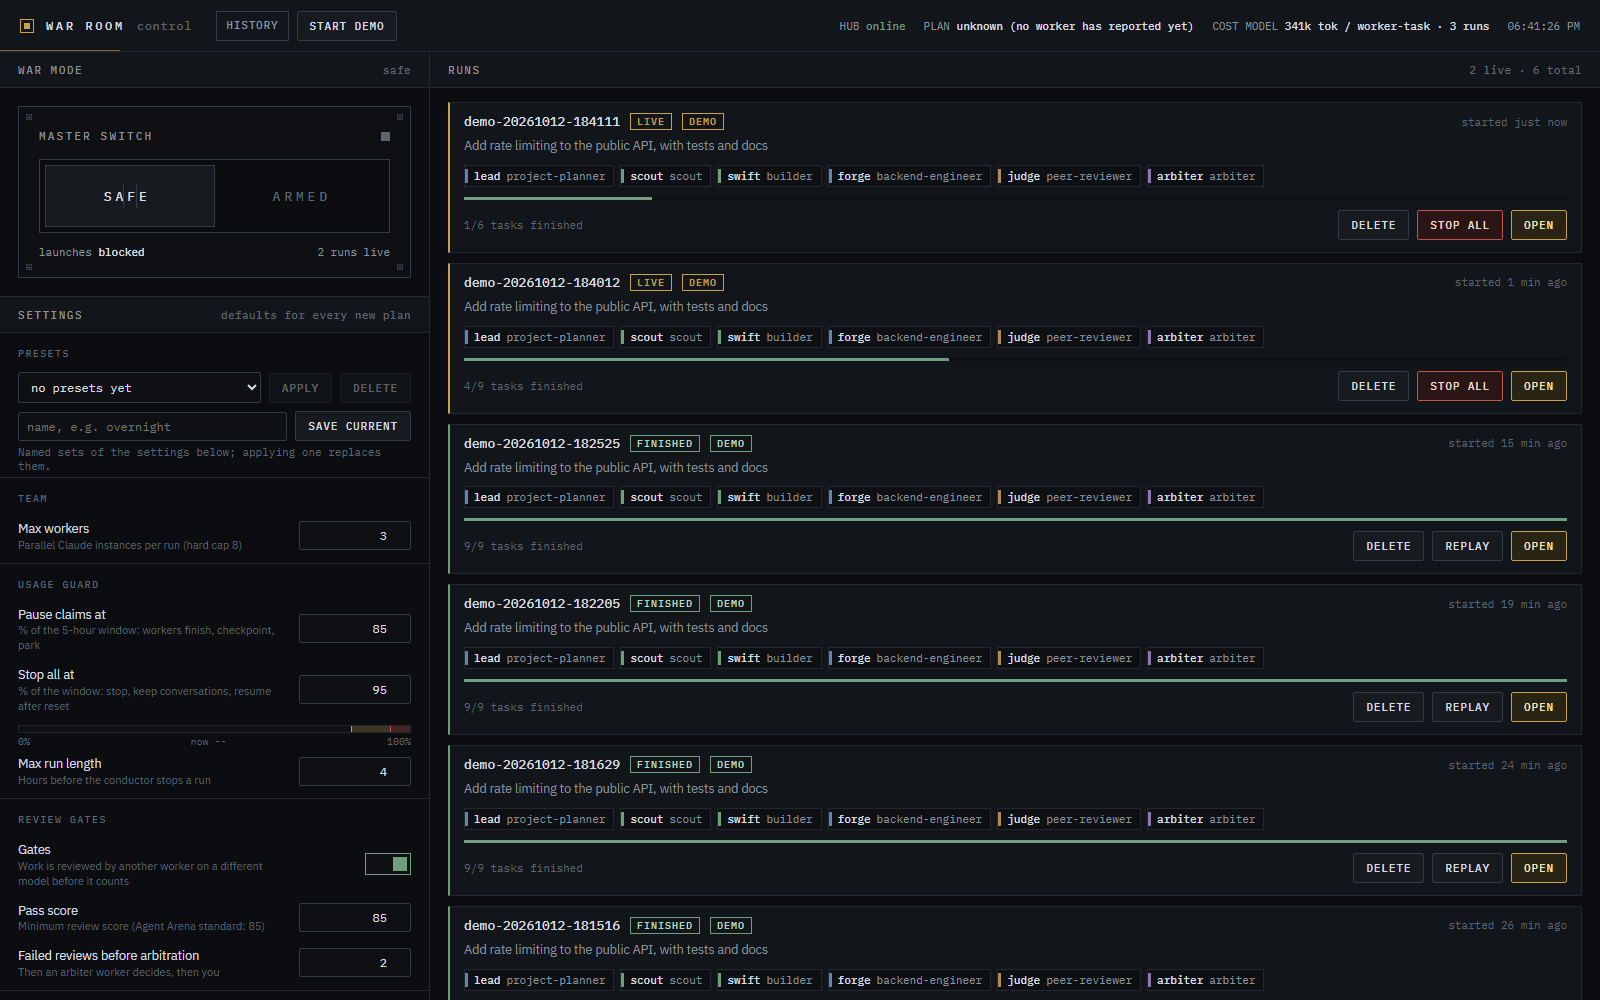
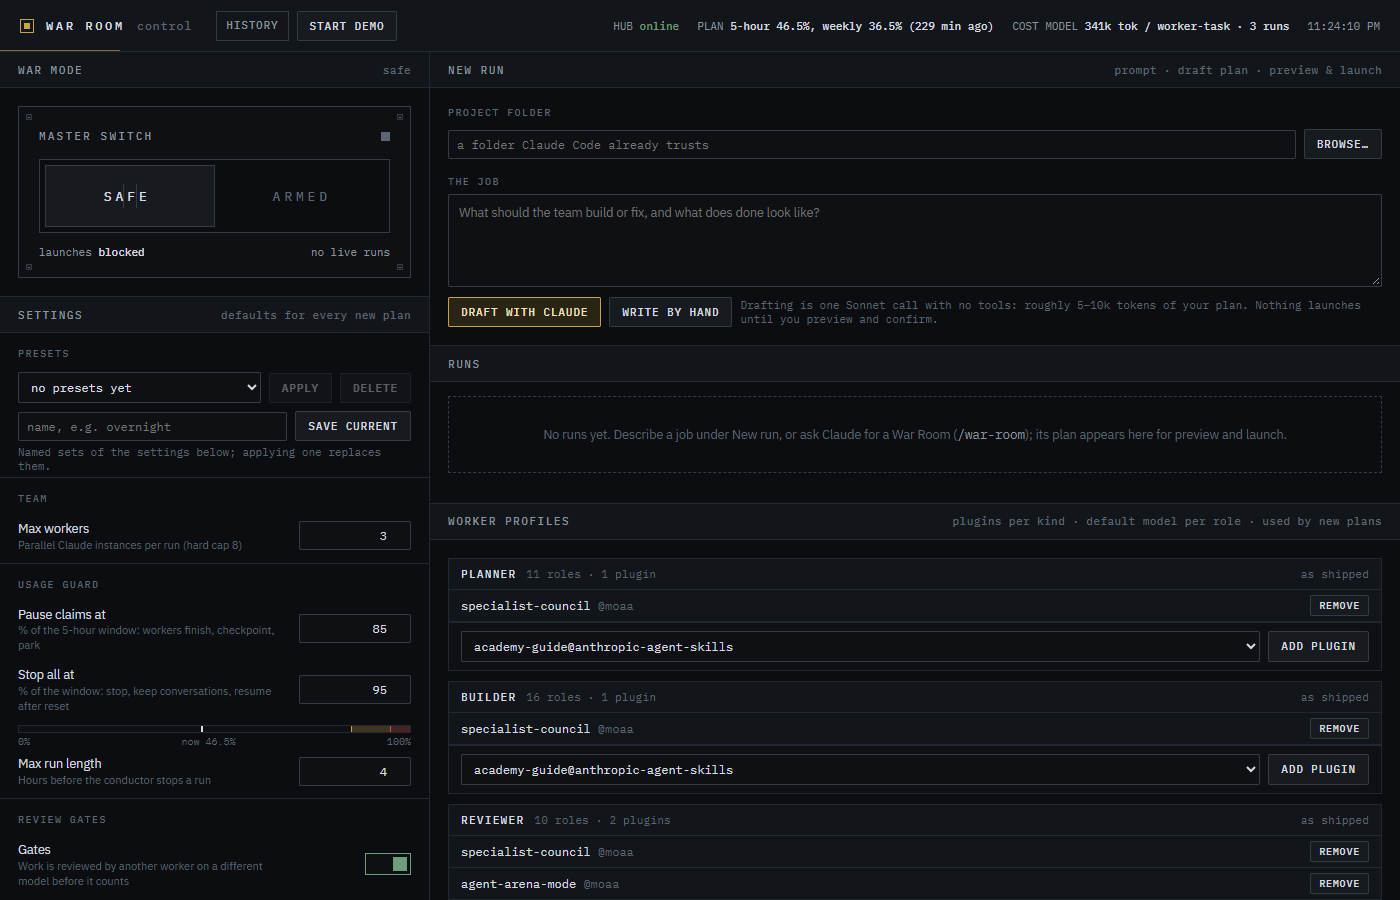
README: expand the War Room section (how a run works, the app, safety rails, cost, try it) and refresh the Home screenshot

diff --git a/README.md b/README.md
@@ -2,7 +2,7 @@
 
 [![CI](https://github.com/ahmadhammoud56/MOAA/actions/workflows/ci.yml/badge.svg)](https://github.com/ahmadhammoud56/MOAA/actions/workflows/ci.yml) [![Release](https://img.shields.io/github/v/release/ahmadhammoud56/MOAA)](https://github.com/ahmadhammoud56/MOAA/releases) [![License: MIT](https://img.shields.io/badge/license-MIT-blue.svg)](LICENSE)
 
-**Turn Claude Code into a team.** MOAA gives you a **Specialist Council** of 60 expert agents, each with its own model and effort level, and an **Agent Arena** where agents compete and get judged. Agents that keep winning are **forged** into new permanent council members. It installs with one command or loads as a plugin marketplace.
+**Turn Claude Code into a team.** MOAA gives you a **Specialist Council** of 60 expert agents, each with its own model and effort level, and an **Agent Arena** where agents compete and get judged. Agents that keep winning are **forged** into new permanent council members. For the biggest jobs, a **War Room** runs a whole team of parallel Claude Code sessions, with review gates and a live control app. It installs with one command or loads as a plugin marketplace.
 
 Created by **[Ahmad Hammoud](https://github.com/ahmadhammoud56)**. The Specialist Council and the Agent Arena are original work; everything else is credited in [NOTICE](NOTICE) and [THIRD_PARTY.md](THIRD_PARTY.md).
 
@@ -64,27 +64,67 @@ The same task in an interactive session with Specialist Council 1.3.1: both work
 
 ## War Room
 
-For giant or multi-workflow jobs, `war-room` runs a team of real Claude Code workers in parallel. The coordinator picks council roles, models, efforts and a curated plugin set per worker; finished work goes through review gates on a different model tier and merges into a per-run branch. Usage limits pause, stop and resume the team automatically, and a finished run cleans up after itself. Everything is visible live in a local app:
+**A team of real Claude Code sessions working one big job in parallel.** Subagents share one context and one turn. A War Room is different: it starts several independent `claude` sessions, each with its own Specialist Council role, model, effort, plugins and permissions. They coordinate through a shared task board and message bus, review each other's work and merge it into one branch. A local app shows the whole team at work.
 
 ![War Room Tree view: the run as an agent tree with the reviewer rail, bus meters, workers by model tier and a session log](plugins/war-room/docs/media/run-tree.png)
 
-The app (War Room 0.3.0) has:
-- **New run:** describe the job and let a headless planner draft the team (or fill the form yourself), edit it, then preview and launch.
+### How a run works
+
+1. **Plan.** Describe the job, either in the app (Home → New run) or to Claude in a chat (`/war-room`). The plan names the workers (for example a planner, two builders, a reviewer and an arbiter), the seed tasks and the budget. In the app, **Draft with Claude** writes the plan with one headless Sonnet call (about 5k tokens, no tools); **Write by hand** costs nothing. You can edit every worker and task before saving.
+2. **Preview and launch.** The preview lists every worker with its role, model, effort and plugins, plus a calibrated token estimate and the usage guard. Launching needs war mode armed, an acknowledgement and a confirm code tied to that exact plan.
+3. **Work.** Workers claim tasks from the board, message each other and checkpoint as they go. Builders write in their own git worktree. Parked workers wait for new work without using tokens, and the conductor wakes idle ones when work arrives.
+4. **Review gates.** Finished work counts only after a reviewer on a **different model tier** passes it (score 85 by default). Failed work goes back to its author. After repeated failures an arbiter decides, and after that you do.
+5. **Merge.** Approved commits merge into a per-run branch, `war-room/<run>`. Merge conflicts go back to the author.
+6. **Finish.** When everything is merged, the run stops its workers, measures the real token cost (this calibrates later estimates), removes its sessions and merged worktrees, and writes a report. Merging into your own branch is a separate **Integrate** step, and it never pushes.
+
+### The app
+
+![War Room home: war mode master switch, new run, settings and runs](plugins/war-room/docs/media/home.png)
+
+- **Home:**
+  - the war mode master switch (SAFE or ARMED);
+  - **New run**, with a folder picker and a job prompt;
+  - settings: team size, the usage guard, gates, presets, plugins per worker kind and a default model per role;
+  - every run, with Preview & launch.
 - **Run views:**
-  - **Flow:** tasks moving through the review gates
-  - **Tree:** the run as an agent tree, shown above
-  - **Topology:** messages between workers
-  - **Cost:** spend and burn per worker, with a projection to the usage guard
-- **Worker drill-down:** a worker's tool calls, messages, checkpoints and usage charts.
-- **Replay** of finished runs, and a **History** page.
-- **Alerts** for human gates, stops and finished runs.
-- **Settings:** presets, plugins per worker kind, a default model per council role, and a dark, light or system theme.
+  - **Flow:** tasks moving through Board, Build, Review, Merge queue and Integrated;
+  - **Tree:** the run as an agent tree, shown above;
+  - **Topology:** messages between workers;
+  - **Cost:** spend and burn per worker, with a projection to the usage guard.
+- **Worker drill-down:** a worker's tool calls, messages, checkpoints and usage charts, and a button to raise its console.
+- **Replay** of any finished run at up to 120x, and a **History** page with outcomes, review results and measured cost.
+- **Alerts:** a toast, a desktop notification and a sound when a human gate opens or a run stops or finishes.
+- **Look:** a flat graphite design in dark, light or system theme, with mechanical motion that turns off under reduced-motion settings.
 
 ![War Room Cost view: spend per worker, the 5-hour window with its projection, and the cost model](plugins/war-room/docs/media/run-cost.png)
 
-To try it at no token cost, run `python plugins/war-room/warroom.py demo`. It plays a simulated six-worker run in the app, with no Claude sessions. `warroom.py app --install-shortcut` puts the app in the Start menu and on the desktop.
+On Windows the app sits on the left of the main screen, with one attached console per worker in a grid on the right, so you can type into any worker. Each console's title shows the worker's state. On macOS and Linux the workers run in a tiled tmux session.
 
-To run real work, arm war mode in the app (`python plugins/war-room/warroom.py app`), then ask Claude for a War Room. You review the plan and launch it yourself. See [plugins/war-room/README.md](plugins/war-room/README.md).
+### Safety rails
+
+- **Nothing launches without you.** War mode starts SAFE. Every launch needs the switch armed, an acknowledgement and the plan's confirm code, and Claude cannot arm it silently.
+- **Narrow permissions.** Each worker runs with an allow-list for its kind. Push, publish, delete and spend are denied, and workers bring those requests to you as human gates.
+- **Usage guard.** At the pause threshold (85% of the 5-hour window by default), workers stop claiming new tasks, checkpoint and park. At the stop threshold (95%) every worker stops; conversations are kept, and the team resumes after the limit resets.
+- **Trusted folders only.** War Room works only in folders Claude Code already trusts, and never bypasses the trust prompt.
+- **Local only.** The app's server listens on 127.0.0.1, checks the Host header and requires a per-session token on every action.
+
+### Cost, and when to use it
+
+A War Room costs far more than subagents. Every worker loads its own context, and a measured three-worker Haiku/Sonnet run processed 3–4M tokens, mostly cache reads. Use it for jobs with several independent streams of work, or with audits between steps. The `/war-room` skill tells you when a few subagents would do instead.
+
+### Try it
+
+```bash
+python plugins/war-room/warroom.py demo
+```
+
+The demo plays a simulated six-worker run in the app for two to three minutes, with claims, a failed review, an arbitration and merges. It starts no Claude sessions and uses no tokens.
+
+```bash
+python plugins/war-room/warroom.py app --install-shortcut
+```
+
+This adds War Room to the Start menu and the desktop. `python plugins/war-room/warroom.py app` opens the app directly. Full details are in [plugins/war-room/README.md](plugins/war-room/README.md).
 
 ## Profiles
 
